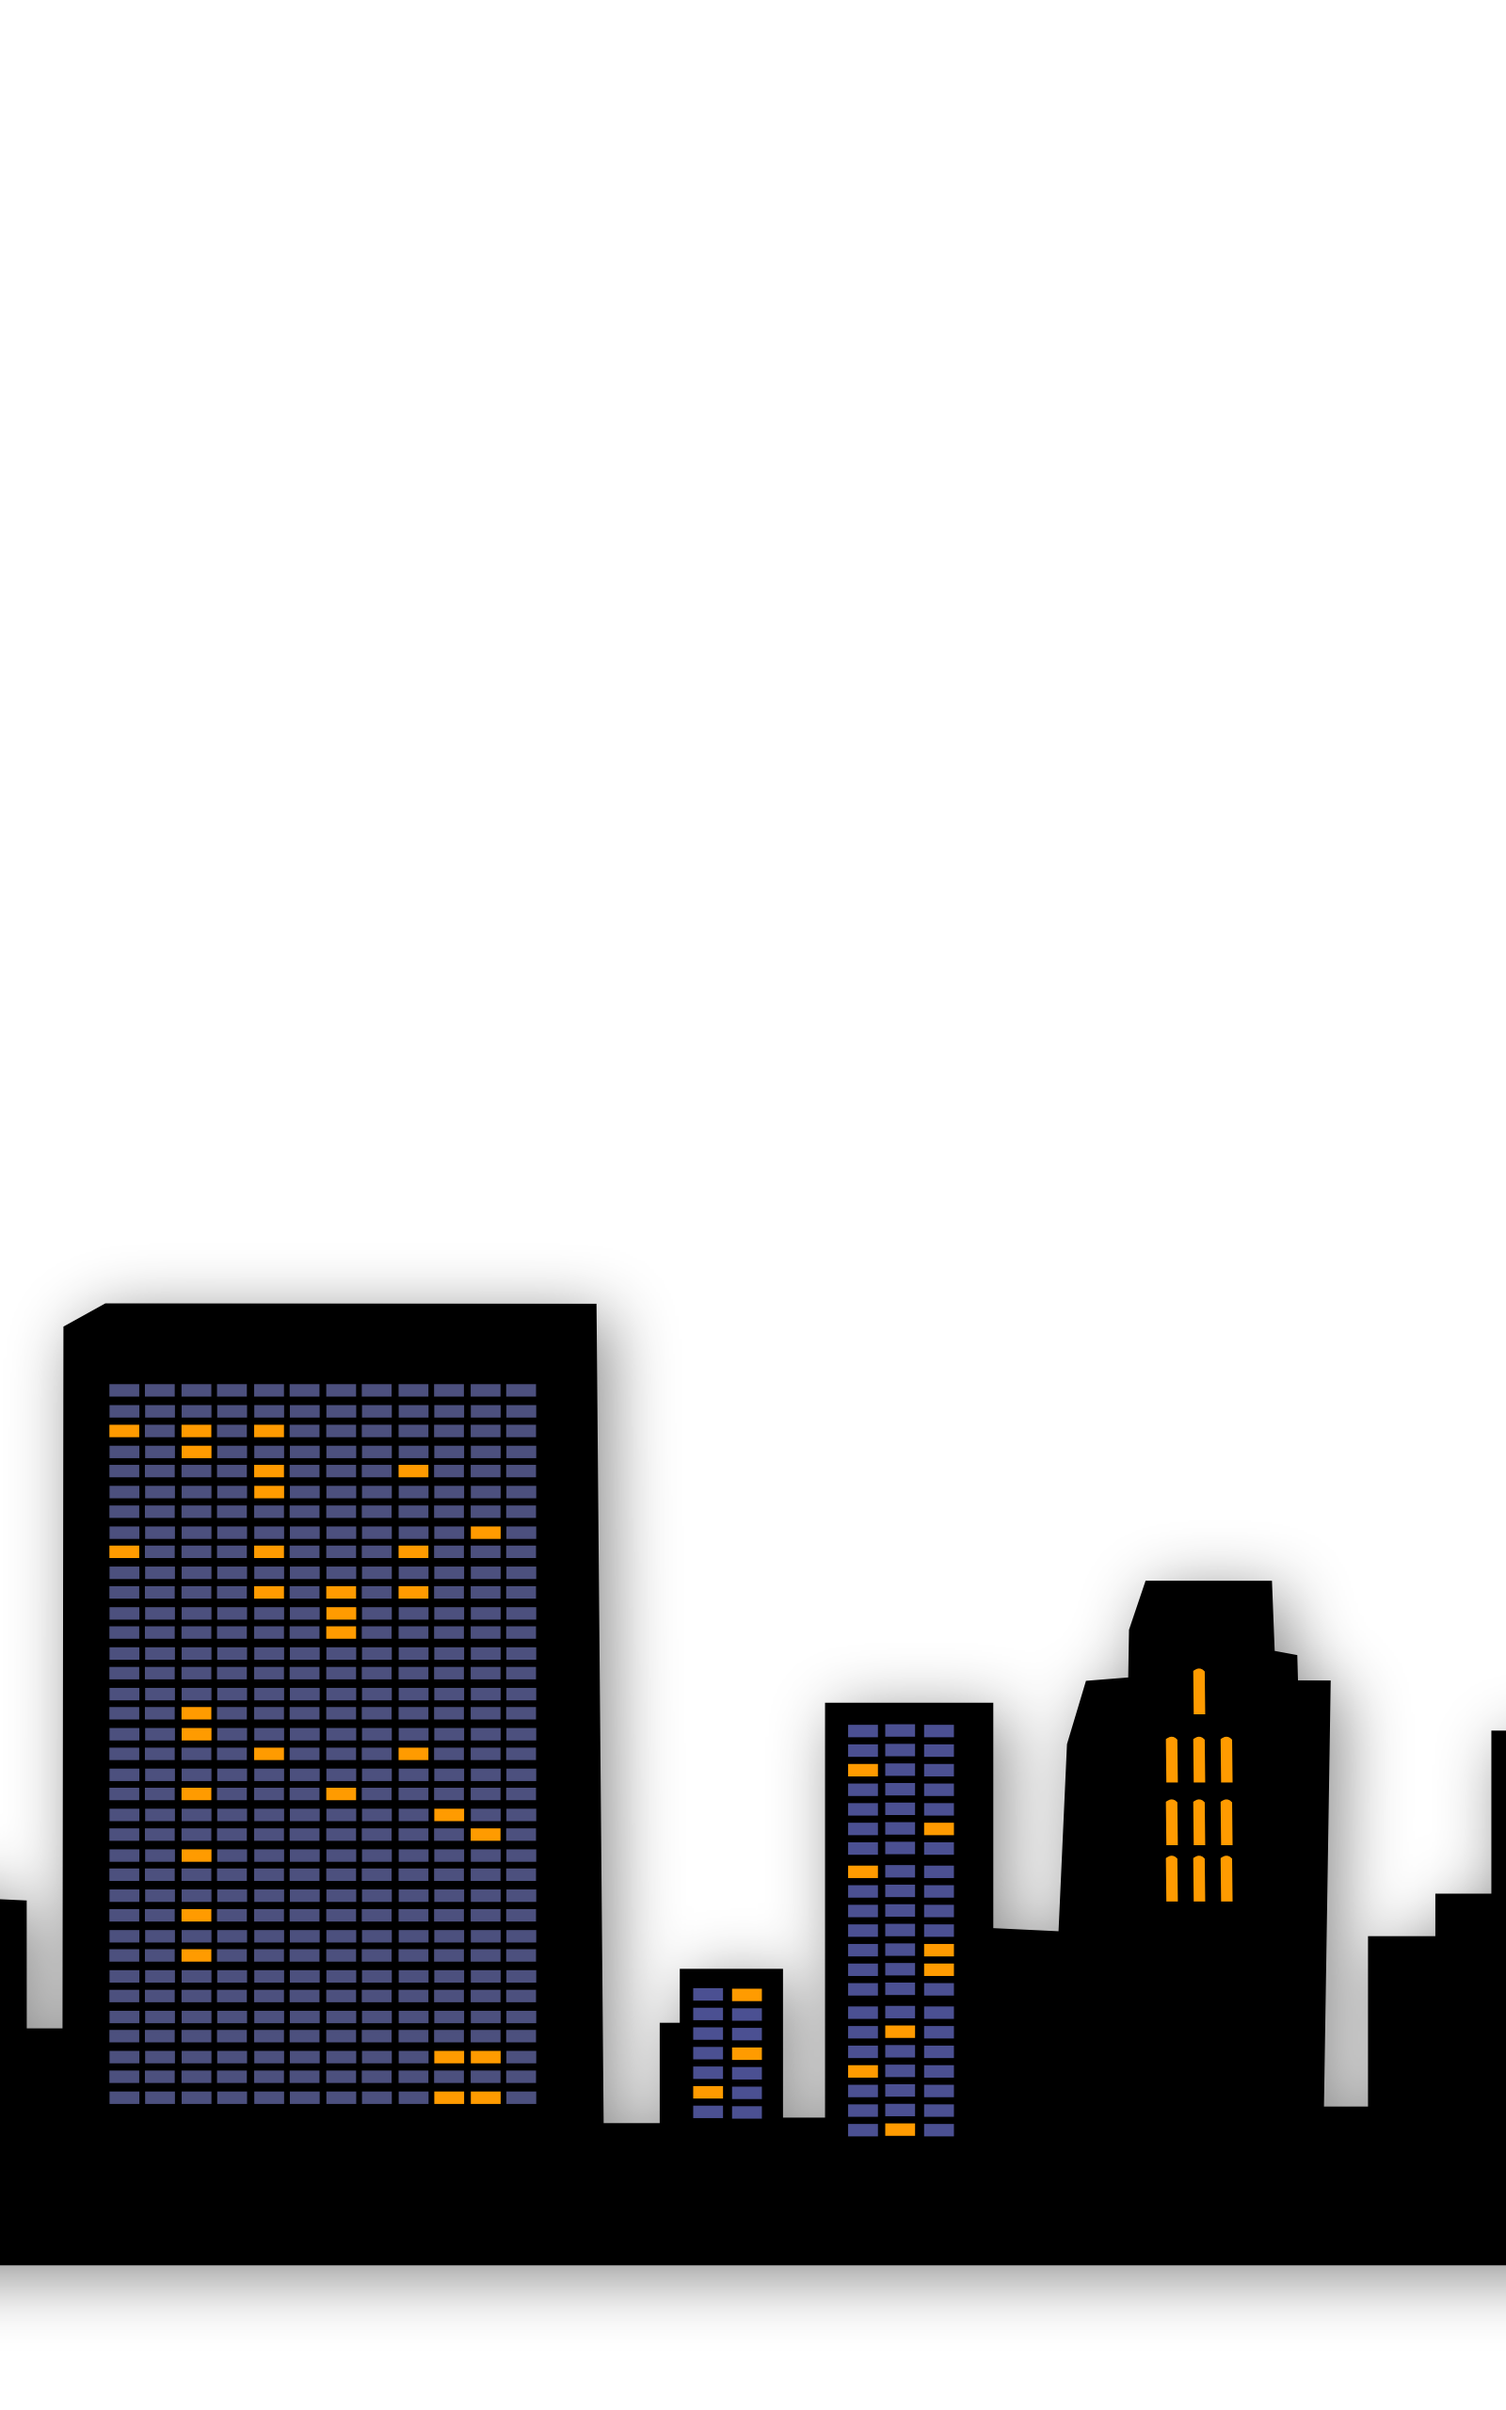
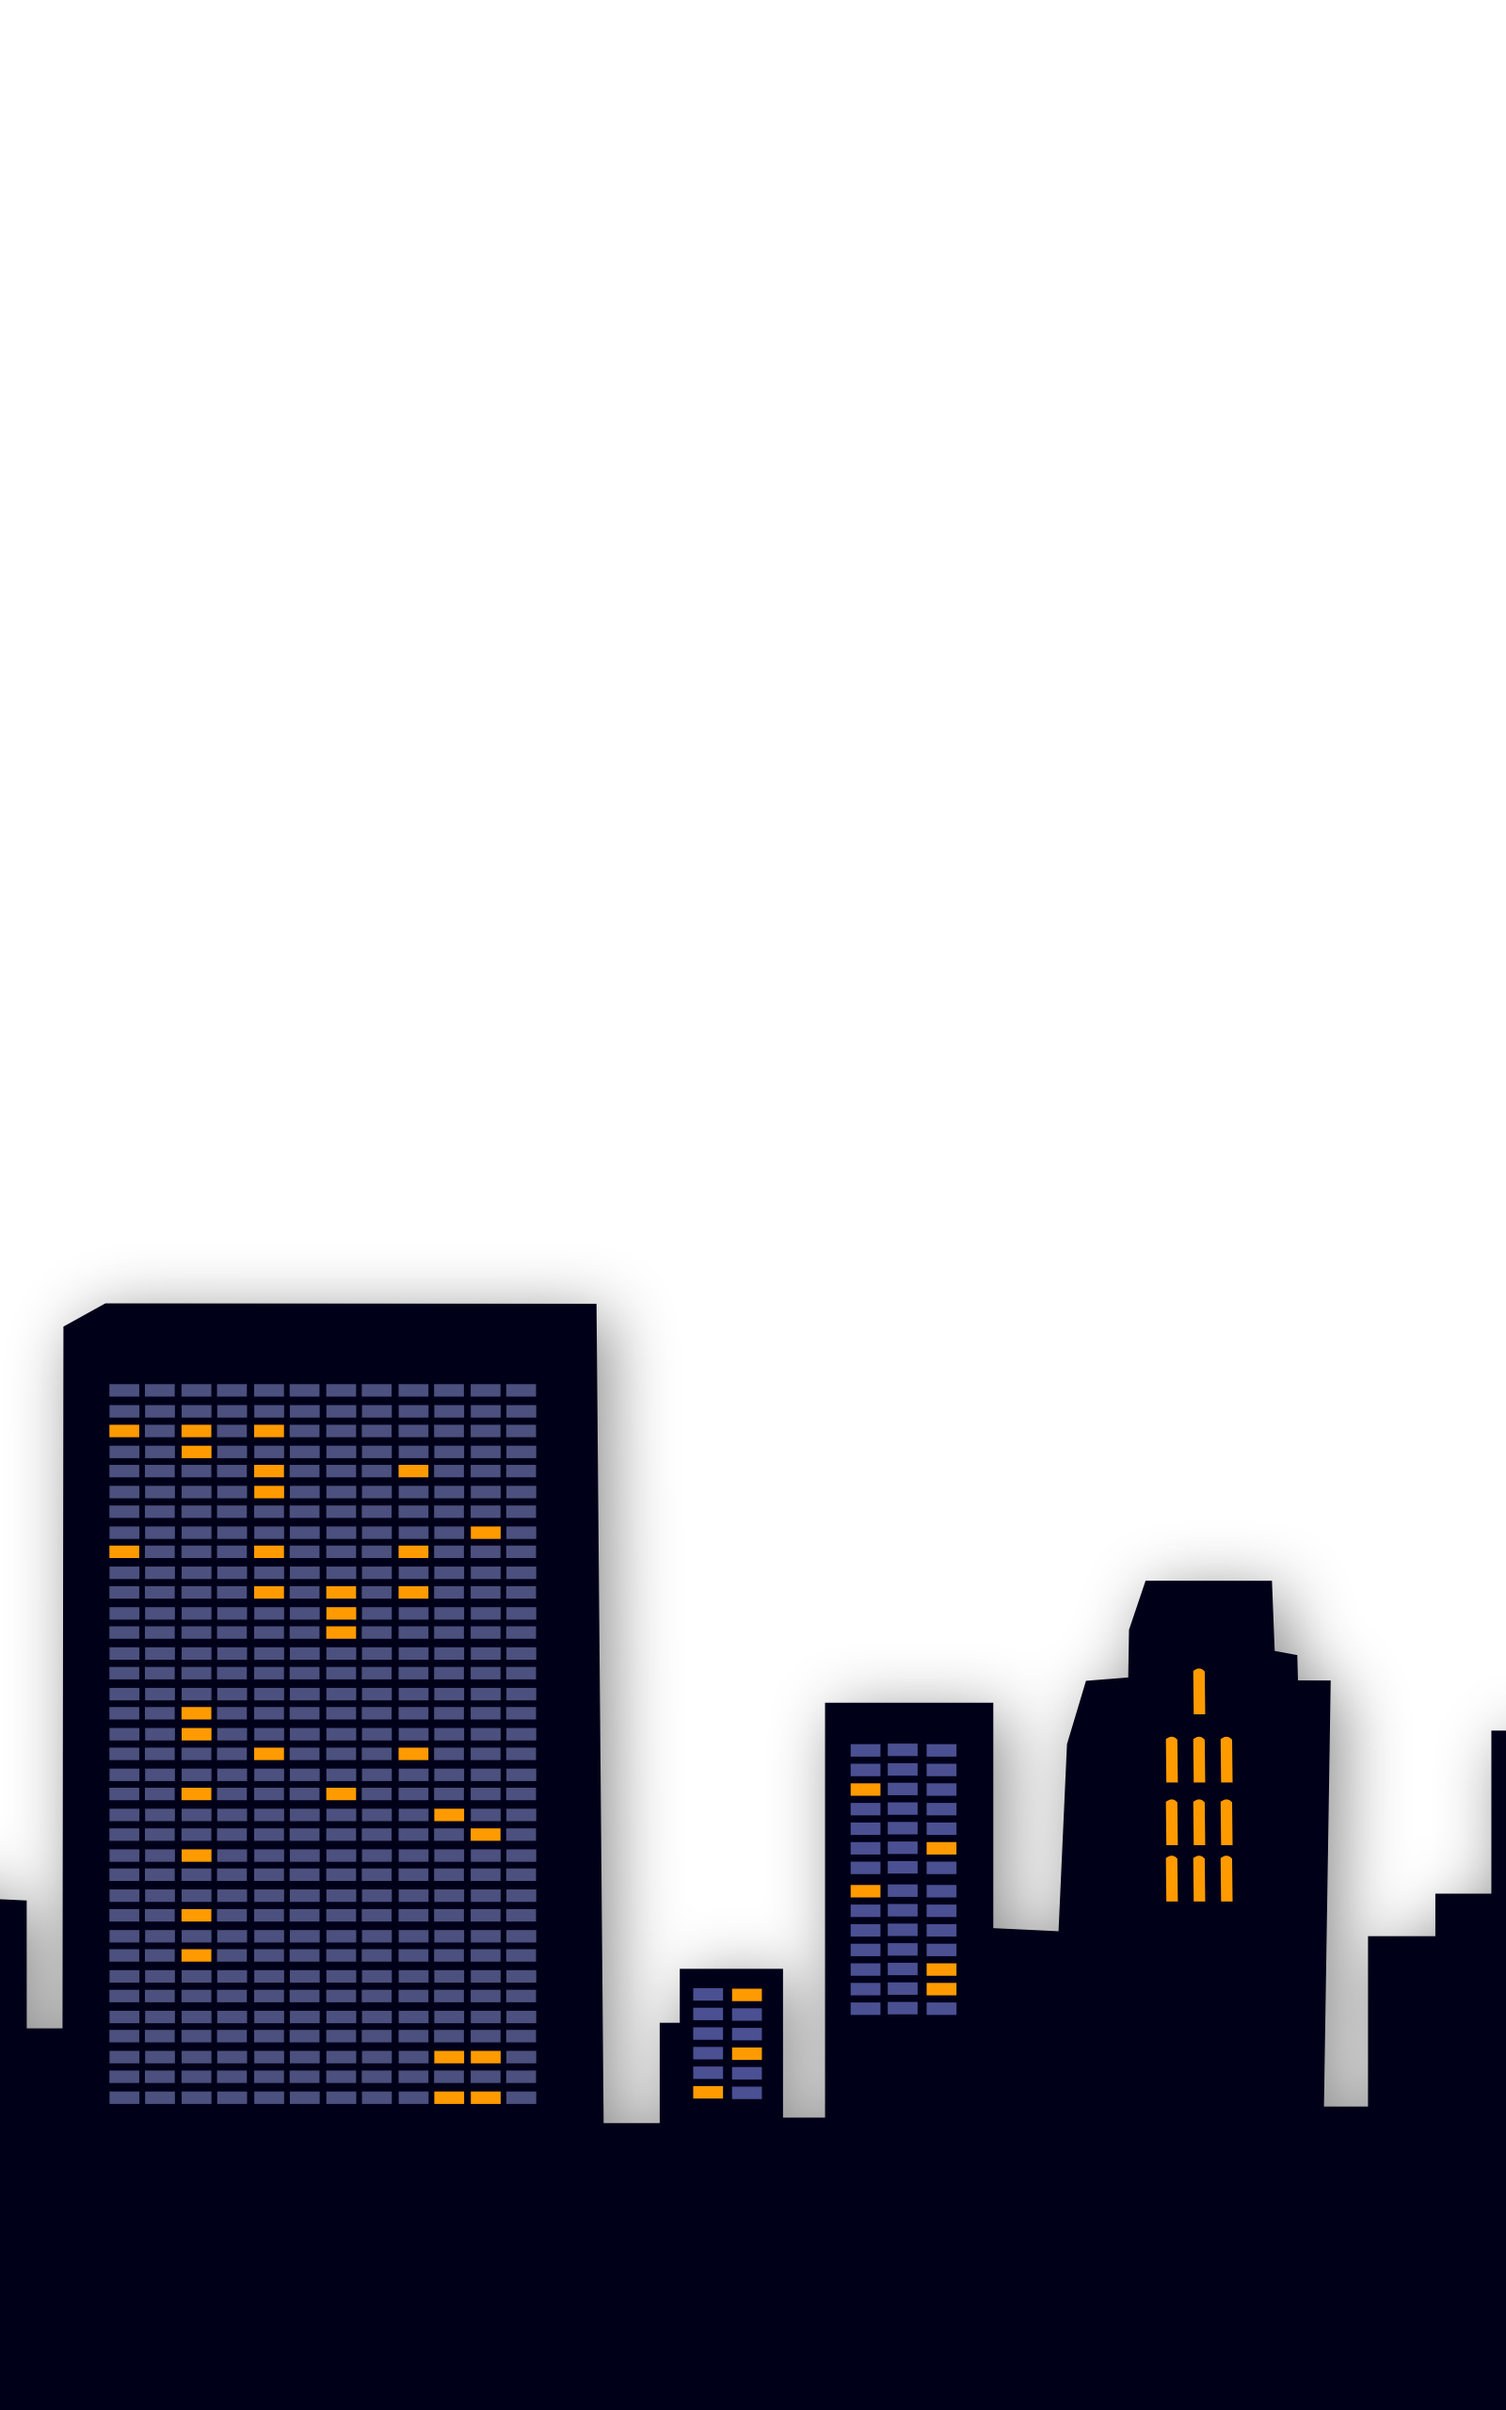
1.0.0

Changed region(s): [[0.0, 0.5312, 1.0, 1.0]]

diff --git a/index.html b/index.html
@@ -44,7 +44,6 @@
                 <img class="section-img" src="/assets/images/cover/bg.png" id="bg">
                 <img class="section-img" src="/assets/images/cover/stars.png" id="stars">
                 <img class="section-img" src="/assets/images/cover/plane.png" id="plane">
-                <img class="section-img" src="/assets/images/cover/title.png" id="title">
                 <img class="section-img" src="/assets/images/cover/city-two.png" id="city-two">
                 <img class="section-img" src="/assets/images/cover/city-one.png" id="city-one">
                 <img class="section-img" src="/assets/images/cover/main.png" id="main">

diff --git a/script.js b/script.js
@@ -16,7 +16,7 @@ $(document).ready(function(){
         $("#stars").css('top', -value*0.5 + 'px');
         $("#plane").css('left', -value*0.5 + 'px');
         $("#title").css('top', -value*0.15 + 'px');
-        $("#city-two").css('top', value*0.15 + 'px');
-        $("#city-one").css('top', -value*0.05 + 'px');
+        $("#city-two").css('top', value*0.2 + 'px');
+        // $("#city-one").css('top', -value*0.1 + 'px');
     });
 });

diff --git a/style.css b/style.css
@@ -225,7 +225,7 @@ section{
     height: 100vh;
     overflow: hidden;
 }
-section:before{
+/* section:before{
     content: '';
     position: absolute;
     bottom: 0;
@@ -233,7 +233,7 @@ section:before{
     height: 100px;
     background: linear-gradient(to top, #000415, transparent);
     z-index: 10000;
-}
+} */
 
 .section-img{
     position: absolute;
